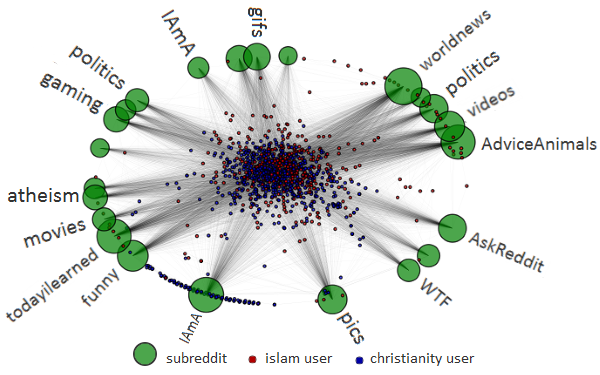
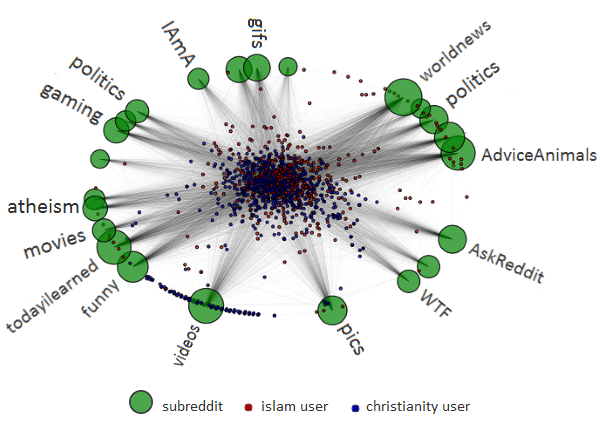
making way on section 1

diff --git a/section1.html b/section1.html
@@ -52,37 +52,65 @@
 		                        <li style="background-color: #dddddd;">
 		                        	<div class="list-content">
 		                        	<h2>Users Connected to Subreddits</h2>
-		                        	<h4>SubTitle</h4>
-		                        	<h5>afadsfsdaf</h5>
-		                        	<h5>afadsfsdaf</h5>
-		                        	<h5>afadsfsdaf</h5>
+		                        	<p>
+		                        		Now that we have a list of roughly 1000 users from both the Christianity and Islam subreddits, 
+		                        		we can look at how they compare to one another. We start by looking at the other subreddit
+		                        		communities that the users have also posted or commented in. 
+		                        	<p>
+		                        		The graph to the right show both types of users linking to the differnt differnt subreddits
+		                        		that they link to. While there are many more subreddits that the usrers have posted to,
+		                        		we filter by subreddits with the most users. This graph is nice to visualize how both types 
+		                        		of users are indeed connected by the other subreddits that they belong to.
 		                        	</div>
 		                        </li>
 		                        <li style="background-color: #bbbbbb;">
 		                        	<div class="list-content">
 		                        	<h2>Shared Subreddits</h2>
-		                        	<h4>SubTitle</h4>
-		                        	<h5>afadsfsdaf</h5>
-		                        	<h5>afadsfsdaf</h5>
-		                        	<h5>afadsfsdaf</h5>
+		                        	<p>
+		                        		Here we've taken that shared subreddits (green nodes from before) and colored them based on 
+		                        		their makeup of Christianity users (more blue) and Islam users (more red). We can see that most
+		                        		all of these bubbles are purple, indicating a pretty even distribution of islam and christianity
+		                        		users.
+		                        	<p>
 		                        	</div>
 		                        </li>		                        
 		                        <li style="background-color: #dddddd;">
 		                        	<div class="list-content">
 		                        	<h2>Users Connected to One Another</h2>
-		                        	<h4>SubTitle</h4>
-		                        	<h5>afadsfsdaf</h5>
-		                        	<h5>afadsfsdaf</h5>
-		                        	<h5>afadsfsdaf</h5>
+		                        	<p>
+		                        		Now that we've seen that users from both communities do indeed overlap in the subreddits they
+		                        		subscribe to, we remove the subreddits from the graph and create a network where users
+		                        		are connected if they have subreddits in common. Because we have found that almost every user
+		                        		shares at least a few subreddits with every other user, we connect users who share twenty 
+		                        		or more subreddits. This gives much more meaning to the connections between the users. This
+		                        		network is shown on the right.
+		                        	<h2>Modularity</h2>
+		                        	<p>
+		                        		With this network of interconnected users, we can use the concept of 
+		                        		<a href="https://en.wikipedia.org/wiki/Modularity_(networks)" target="blank">
+		                        			modularity. 
+		                        		</a>
+		                        		Modularity is a ratio of the number of edges in groups compared to the number of edges
+		                        		that would appear if they were placed at random. Therefore, if the modularity is greater than
+		                        		one then the number of edges that appear in the groups is greater than the number of
+		                        		edges expected if placed randomly.
+		                        	<p>
+		                        		When we caclulate the modulartity of the network where groups are defined by the islam and 
+		                        		christianity subreddits, we get a value of <b>0.035</b>. While this value is positive,
+		                        		it is quite low and indicates that there is not much distinction of communities between 
+		                        		the user in relation to them belonging to the christianity or islam subreddit.
 		                        	</div>
 		                        </li>
 		                        <li style="background-color: #bbbbbb;">
 		                        	<div class="list-content">
-		                        	<h2>Closest Significance</h2>
-		                        	<h4>SubTitle</h4>
-		                        	<h5>afadsfsdaf</h5>
-		                        	<h5>afadsfsdaf</h5>
-		                        	<h5>afadsfsdaf</h5>
+		                        	<h2>Community Detection</h2>
+		                        	<p>
+		                        		Since the christianity and islam subreddits didn't seem to form a basis for the communities
+		                        		in our network, we use 
+		                        		<a href="http://perso.crans.org/aynaud/communities/" target="blank">Python's</a>
+		                        		<a href="https://en.wikipedia.org/wiki/Louvain_Modularity" target="blank">Louvain-algorithm</a>
+		                        		to see if better communities can be detected. 
+		                        	<p> The Louvain-algorithm 
 		                        	</div>
 		                        </li>
 		                    </ul>
@@ -104,9 +132,15 @@
 		            	
 		                <div class="jcarousel">
 		                    <ul>
+		                    	<li>
+		                        	<div class="list-content">
+		                        		<a href="https://www.reddit.com/about/team/" target="blank">
+		                        			<img src='images/subreddit_characters.png'/>
+		                        		</a>
+		                        	</div>
+		                        </li>
 		                        <li>
 		                        	<div class="list-content">
-		                        	<h2>User to Subreddit</h2>
 		                        	<img src='images/user_to_subreddit.png'/>
 		                        	</div>
 		                        </li>
@@ -121,15 +155,15 @@
 		                        <li>	
 		                        	<div class="list-content" style="text-align: center;">
 		                        	<h2>User to Subreddit</h2>		                        	                     	
-		                        	<span class="chart chart1" data-percent="92">
+		                        	<span class="chart chart1" data-percent="52">
 										<span class="percent"></span>
 										</br>
-										<span>group 1</span>
+										<span>community 1</span>
 									</span>							                     	
-		                        	<span class="chart chart2" data-percent="33">
+		                        	<span class="chart chart2" data-percent="62">
 										<span class="percent"></span>
 										</br>
-										<span>group 2</span>
+										<span>community 2</span>
 									</span>
 		                        	</div>	   
 		                        </li>
@@ -168,7 +202,7 @@
 				
 				$('.chart1').easyPieChart({
 					onStep: function(from, to, percent) {
-						$(this.el).find('.percent').text(Math.round(percent));
+						$(this.el).find('.percent').text((100-Math.round(percent))+"%/"+(Math.round(percent)));
 					},
 					trackColor: '#337AB7',
 					barColor:'#b73438',
@@ -181,7 +215,7 @@
 				
 				$('.chart2').easyPieChart({
 					onStep: function(from, to, percent) {
-						$(this.el).find('.percent').text(Math.round(percent));
+						$(this.el).find('.percent').text((100-Math.round(percent))+"%/"+(Math.round(percent)));
 					},
 					trackColor: '#337AB7',
 					barColor:'#b73438',

diff --git a/css/chart.css b/css/chart.css
@@ -6,6 +6,7 @@
   margin: 50px;
   margin-top: 50px;
   text-align: center;
+  font-size: 18px;
 }
 .chart canvas {
   position: absolute;
